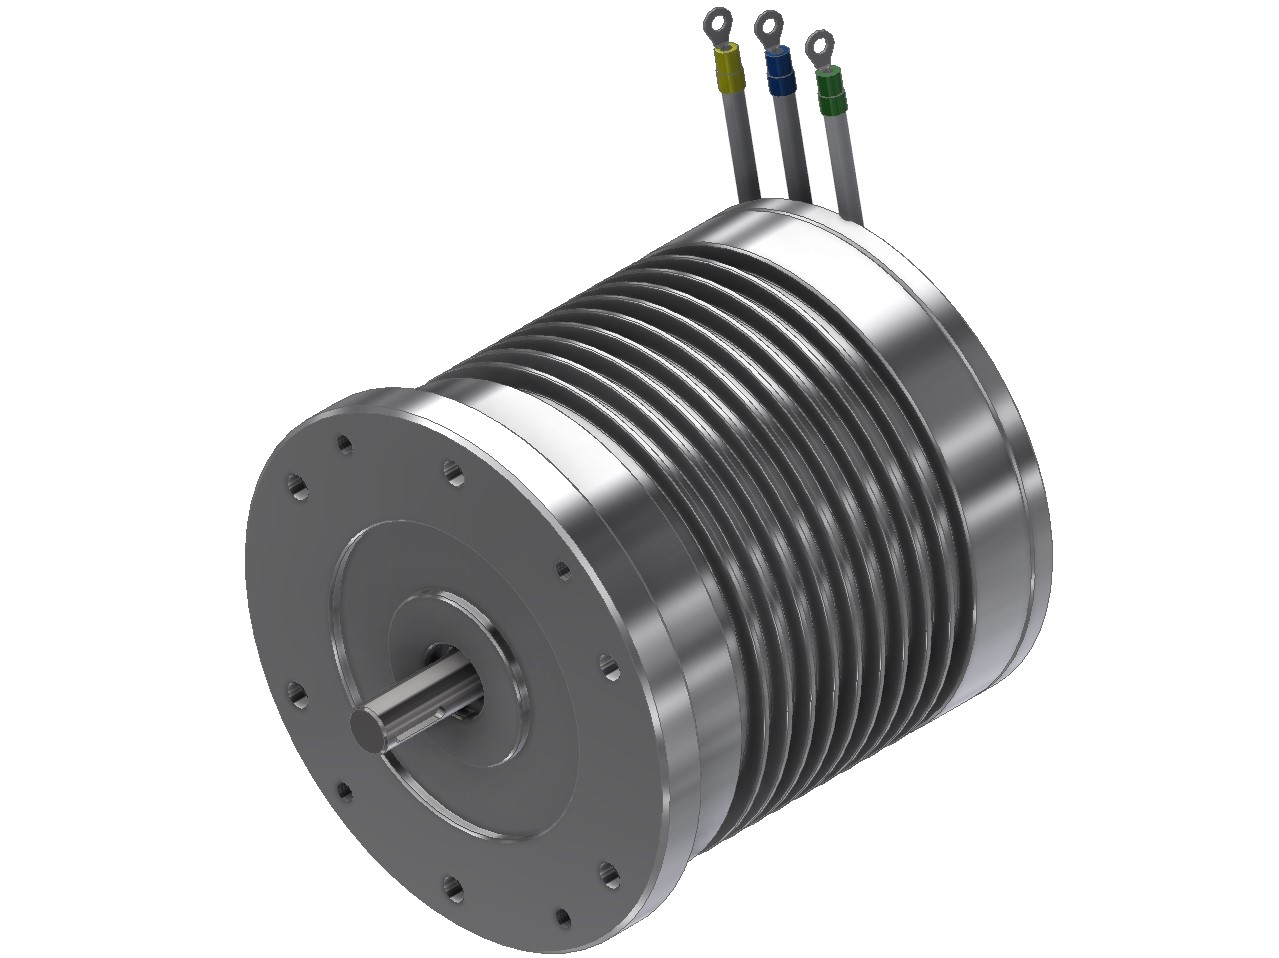
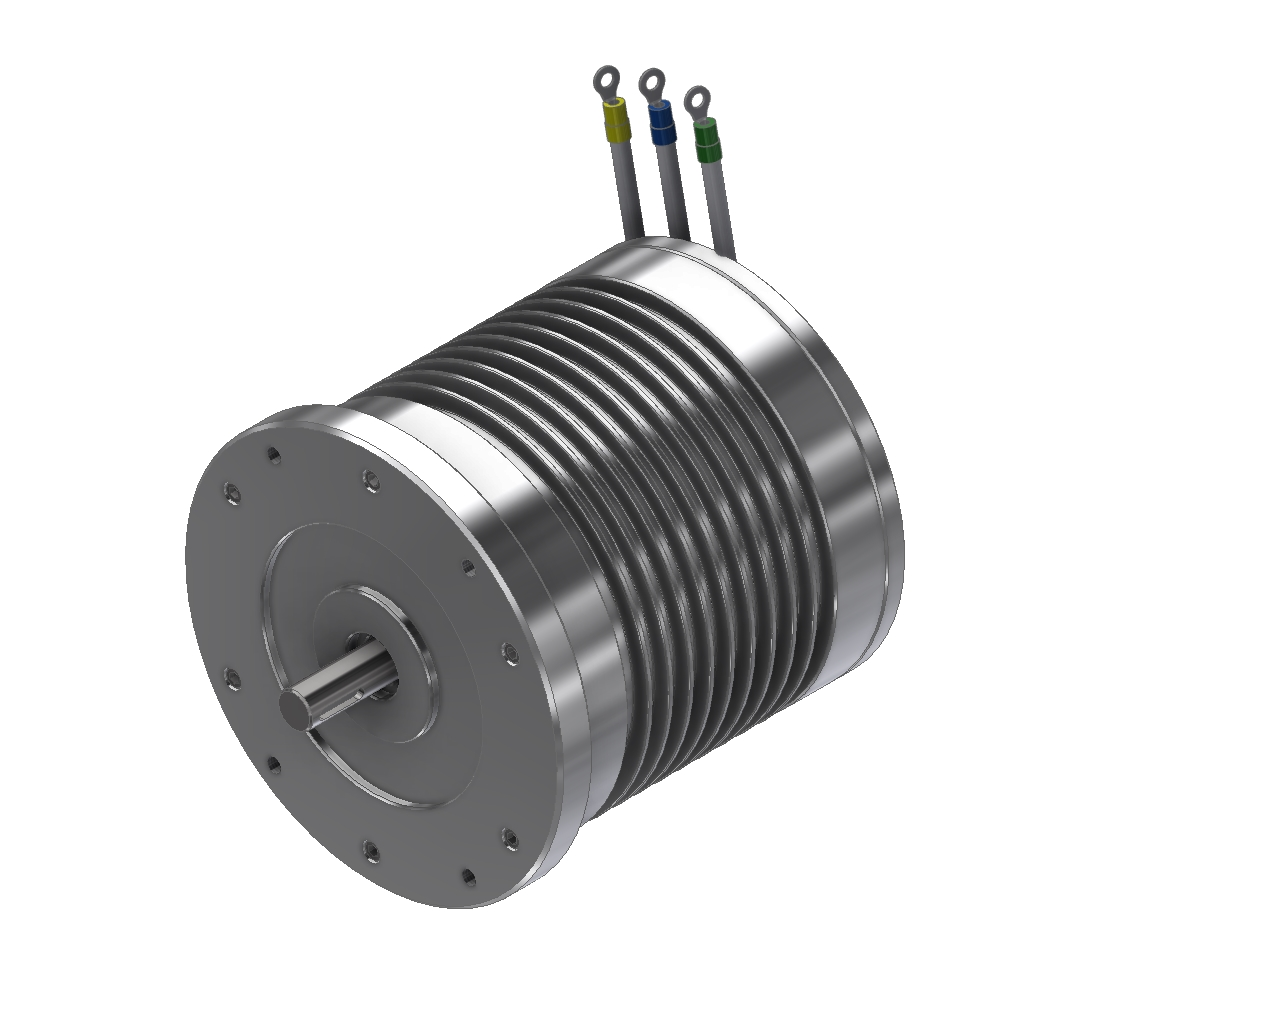
added product images

Changed region(s): [[0.122, 0.0, 0.8233, 0.999]]

diff --git a/src/pages/Products.jsx b/src/pages/Products.jsx
@@ -22,7 +22,7 @@ const StyledUl = styled.ul`
   list-style-type: none;
   display: grid;
   grid-template-columns: repeat(3, 1fr);
-  gap: 70px;
+  gap: 20px;
 
   @media only screen and (max-width: 600px) {
     grid-template-columns: repeat(1, 1fr);
@@ -33,9 +33,11 @@ const StyledUl = styled.ul`
 
 const StyledImage = styled.li`
   padding: 10px;
-  margin: 5px;
+  margin: 100px;
   text-align: center;
   height: 100%;
+  margin-top: 30px;
+  margin-bottom: 50px;
 
   h2 {
     font-size: 2.1rem;
@@ -103,9 +105,9 @@ function Products() {
               duration: 1,
             }}
           >
-            <Img src="3D.PNG" alt="product" />
-
+            <img src="1KW SPM R1.jpg" alt="product" />
             <h2>1 kW BLDC / PMSM</h2>
+
             <Button onClick={handleExplore}>..more</Button>
           </StyledImage>
 
@@ -121,7 +123,25 @@ function Products() {
               duration: 1,
             }}
           >
-            <img src="3D.PNG" alt="product" />
+            <img src="2KW SPM R1.jpg" alt="product" />
+            <h2>2 kW BLDC / PMSM</h2>
+
+            <Button onClick={handleExplore}>..more</Button>
+          </StyledImage>
+
+          <StyledImage
+            as={motion.li}
+            initial={{ scale: 0.3, opacity: 0 }}
+            whileInView={{ scale: 1, opacity: 1 }}
+            transition={{
+              delay: 0.4,
+              x: { type: "spring", stiffness: 60 },
+              opacity: { duration: 1 },
+              ease: "easeIn",
+              duration: 1,
+            }}
+          >
+            <img src="3KW SPM R1.jpg" alt="product" />
             <h2>3 kW BLDC / PMSM</h2>
 
             <Button onClick={handleExplore}>..more</Button>
@@ -139,7 +159,7 @@ function Products() {
               duration: 1,
             }}
           >
-            <img src="3D.PNG" alt="product" />
+            <img src="5KW SPM R1.jpg" alt="product" />
             <h2>5 kW BLDC / PMSM</h2>
 
             <Button onClick={handleExplore}>..more</Button>
@@ -157,7 +177,7 @@ function Products() {
               duration: 1,
             }}
           >
-            <img src="3D.PNG" alt="product" />
+            <img src="8KW SPM R1.jpg" alt="product" />
             <h2>8 kW BLDC / PMSM</h2>
 
             <Button onClick={handleExplore}>..more</Button>
@@ -175,25 +195,7 @@ function Products() {
               duration: 1,
             }}
           >
-            <img src="3D.PNG" alt="product" />
-            <h2>10 kW BLDC / PMSM</h2>
-
-            <Button onClick={handleExplore}>..more</Button>
-          </StyledImage>
-
-          <StyledImage
-            as={motion.li}
-            initial={{ scale: 0.3, opacity: 0 }}
-            whileInView={{ scale: 1, opacity: 1 }}
-            transition={{
-              delay: 0.4,
-              x: { type: "spring", stiffness: 60 },
-              opacity: { duration: 1 },
-              ease: "easeIn",
-              duration: 1,
-            }}
-          >
-            <img src="3D.PNG" alt="product" />
+            <img src="173 IPM.jpg" alt="product" />
             <h2>15 kW BLDC / PMSM</h2>
 
             <Button onClick={handleExplore}>..more</Button>
